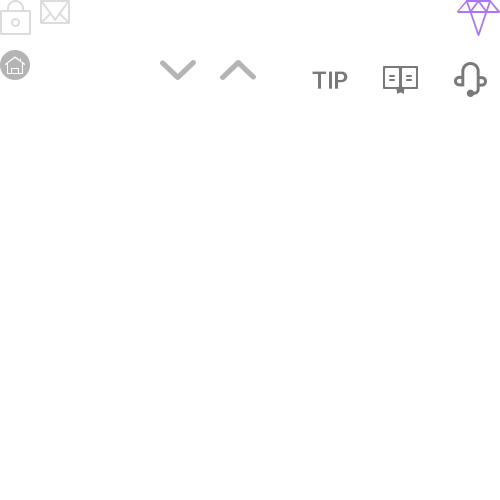
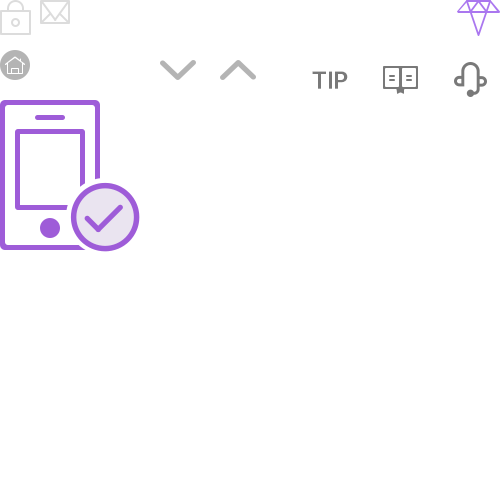
page - 본인 확인 완료

Changed region(s): [[0.0, 0.18, 0.3, 0.51]]

diff --git a/source/html/join_check.html b/source/html/join_check.html
@@ -37,43 +37,18 @@
 					<span></span>
 				</button>
 			</div>
-			<h2 class="title"><a href="#">이메일 가입</a></h2>
+			<h2 class="title"><a href="#">본인 확인</a></h2>
 			<a href="search.html" class="button_search"><span class="common_bg">검색하기</span></a>
 		</div>
 	</header>
 
 	<main class="contents">
-		<p class="join_step_progress"><img src="../img/join_step1.png" alt="이메일 가입 절차 첫번째 이메일 가입란입니다. 다음은 두번째 본인확인, 세번째 맘정보설정 페이지가 있습니다." width="310"></p>
-		<form action="#" class="join_form">
-			<fieldset>
-				<legend>이메일 가입 정보 작성</legend>
-				<div class="placeholder_wrap">
-					<label for="join_info_name"><span class="placeholder">닉네임을 입력해주세요.</span></label>
-					<input type="text" name="" id="join_info_name" placeholder="" value="">
-				</div>
-				<div class="placeholder_wrap">
-					<label for="join_info_mail"><span class="placeholder">이메일 주소를 입력해주세요.</span></label>
-					<input type="email" name="" id="join_info_mail" placeholder="" value="">
-				</div>
-				<div class="placeholder_wrap">
-					<label for="join_info_pass"><span class="placeholder">비밀번호 영문,숫자 포함 6~20자.</span></label>
-					<input type="password" name="" id="join_info_pass" placeholder="" value="">
-				</div>
-				<div class="placeholder_wrap">
-					<label for="join_info_pass_re"><span class="placeholder">비밀번호 재 확인.</span></label>
-					<input type="password" name="" id="join_info_pass_re" placeholder="" value="">
-				</div>
-				<p class="join_agree">
-					<span class="dcheck_type2">
-						<input type="checkbox" id="check" name="" value="" checked="checked" >
-						<label for="check"><em></em><a href="#">서비스이용약관</a> 및 <a href="#">개인정보 취급방침</a>, <a href="#">위치기반서비스 취급방침</a>에 동의합니다.</label>
-					</span>
-				</p>
-				<p class="join_note">* 비밀번호 분실시 이메일을 통해 확인하므로, 정확하게 입력해주세요.</p>
-
-				<button type="submit" class="button_flat button_confirm">확인</button>
-			</fieldset>
-		</form>
+		<p class="join_step_progress"><img src="../img/join_step2.png" alt="이메일 가입 절차 두번째 본인확인 입니다. 이전은 이메일 가입을 위한 정보입력하였고, 다음은 세번째 맘정보설정 페이지가 있습니다." width="310"></p>
+		<div class="join_form">
+			<p class="join_check_text">고수맘 휴대폰 본인 확인은 방문서비스 <br>
+			이용에 필요한 정보 이외 용도로는 사용하지 않습니다.</p>
+			<button type="submit" class="button_flat button_confirm">휴대폰 본인 확인하기</button>
+		</div>
 	</main>
 
 </div>

diff --git a/source/html/join_sns.html b/source/html/join_sns.html
@@ -49,19 +49,11 @@
 				<legend>이메일 가입 정보 작성</legend>
 				<div class="placeholder_wrap">
 					<label for="join_info_name"><span class="placeholder">닉네임을 입력해주세요.</span></label>
-					<input type="text" name="" id="join_info_name" placeholder="" value="">
+					<input type="text" name="" id="join_info_name" placeholder="" value="못꼬">
 				</div>
 				<div class="placeholder_wrap">
 					<label for="join_info_mail"><span class="placeholder">이메일 주소를 입력해주세요.</span></label>
-					<input type="email" name="" id="join_info_mail" placeholder="" value="">
-				</div>
-				<div class="placeholder_wrap">
-					<label for="join_info_pass"><span class="placeholder">비밀번호 영문,숫자 포함 6~20자.</span></label>
-					<input type="password" name="" id="join_info_pass" placeholder="" value="">
-				</div>
-				<div class="placeholder_wrap">
-					<label for="join_info_pass_re"><span class="placeholder">비밀번호 재 확인.</span></label>
-					<input type="password" name="" id="join_info_pass_re" placeholder="" value="">
+					<input type="email" name="" id="join_info_mail" placeholder="" value="uni0376@gosumom.com">
 				</div>
 				<p class="join_agree">
 					<span class="dcheck_type2">
@@ -69,7 +61,6 @@
 						<label for="check"><em></em><a href="#">서비스이용약관</a> 및 <a href="#">개인정보 취급방침</a>, <a href="#">위치기반서비스 취급방침</a>에 동의합니다.</label>
 					</span>
 				</p>
-				<p class="join_note">* 비밀번호 분실시 이메일을 통해 확인하므로, 정확하게 입력해주세요.</p>
 
 				<button type="submit" class="button_flat button_confirm">확인</button>
 			</fieldset>

diff --git a/source/css/style.css b/source/css/style.css
@@ -1326,7 +1326,8 @@ a:hover .badge{
 }
 .join_form{
 	max-width: 720px;
-	padding: 0 4.1666%;
+	margin: 0 auto;
+	padding: 0 4.1666% 100px;
 }
 .join_form .placeholder_wrap{
 	width: 100%;
@@ -1341,22 +1342,20 @@ a:hover .badge{
 }
 .join_form .join_agree{
 	color: #787878;
-	letter-spacing: -1px;
 }
 .join_form .join_agree a{
 	color: #787878;
 	text-decoration: underline;
 }
 .join_form .join_note{
-	margin-top: 20px;
-	color: #9E5CD8;
-	letter-spacing: -1px;
+	margin-top: 18px;
+	color: #9e5cd8;
 }
 .dcheck_type2 label{
 	padding-top: 0;
 }
 .join_form .dcheck_type2 label em{
-	margin-top: 6px;
+	margin-top: 4px;
 }
 @media all and (min-width:450px){
 	.join_form .dcheck_type2 label em{
@@ -1364,8 +1363,26 @@ a:hover .badge{
 	}
 }
 .join_form .button_confirm{
+	z-index: 10;
 	position: fixed;
 	bottom: 0;
 	left: 0;
 	right: 0;
+	height: 55px;
+	line-height: 55px;
+}
+.join_check_text{
+	padding-top: 130px;
+	font-size: 1.083em;
+	text-align: center;
+	color: #787878;
+}
+.join_check_text::before{
+	content: "";
+	display: block;
+	margin: 0 auto 16px;
+	width: 71.5px;
+	height: 77.5px;
+	background: url(../img/common.png) no-repeat 0 -50px;
+	background-size: 250px 250px;
 }
